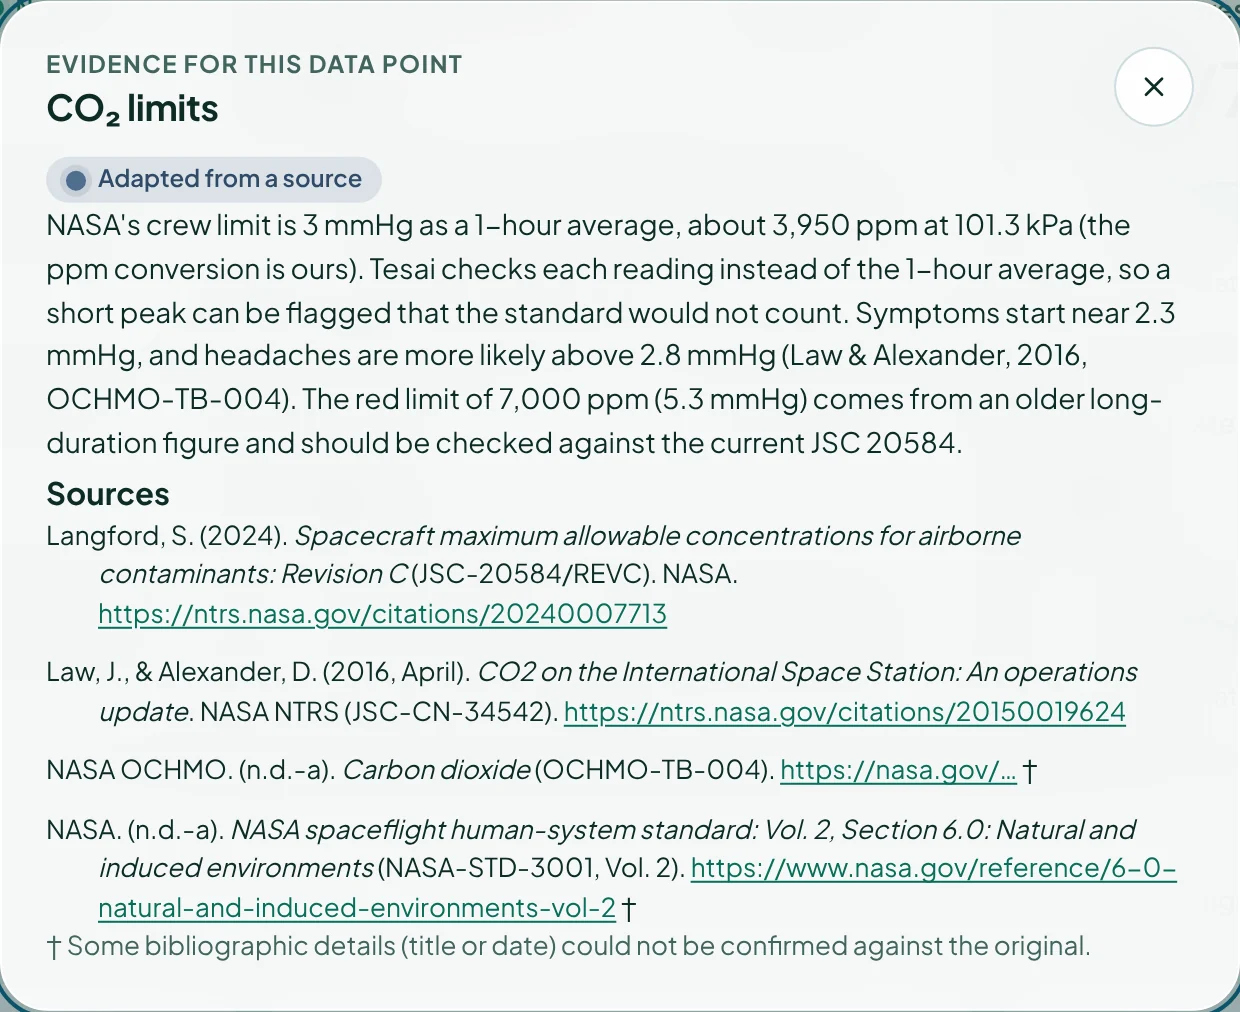
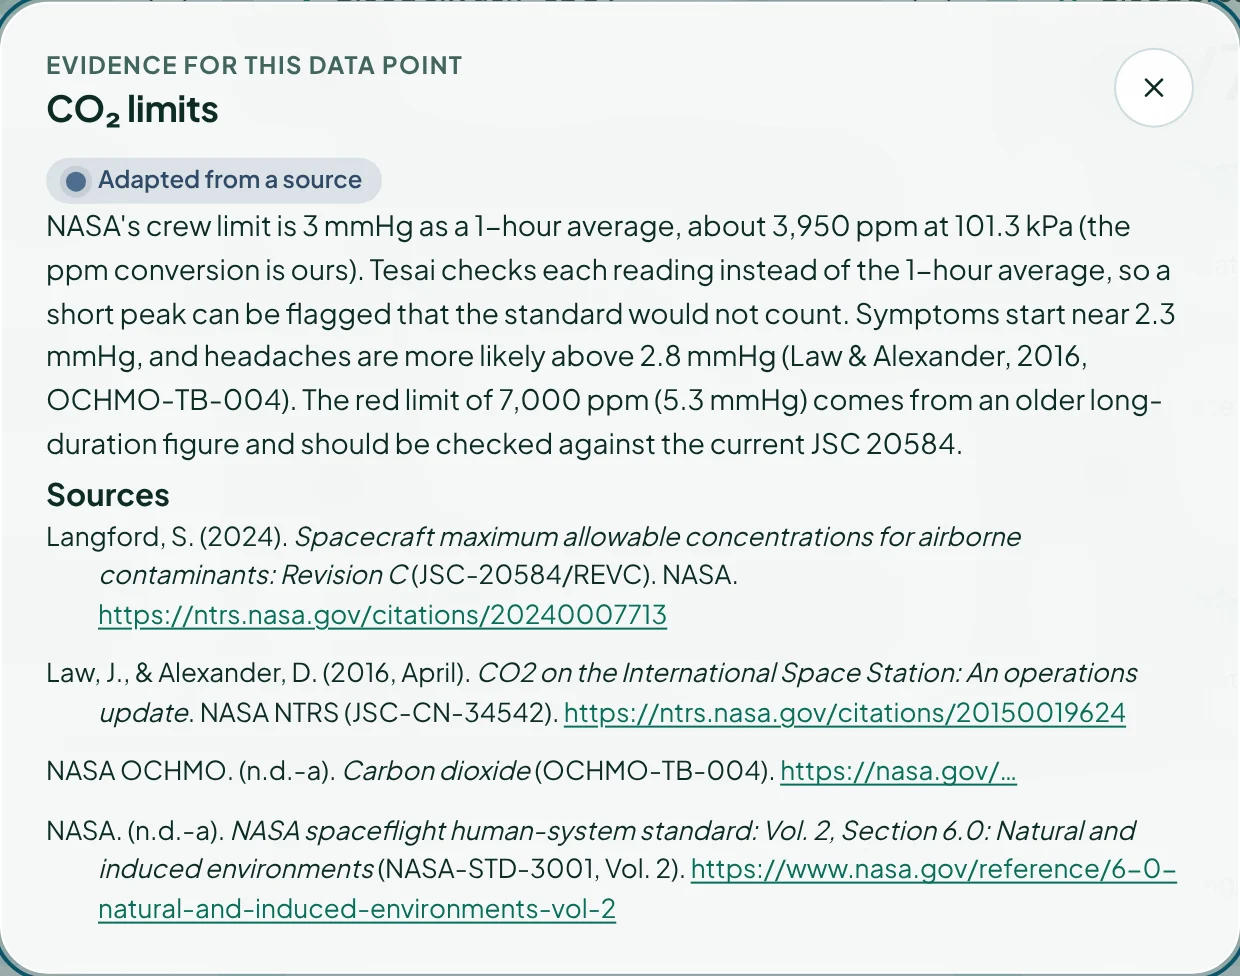
chore: quitar código sin uso y corregir la proporción de la captura de evidencia

diff --git a/src/tesai/styles/components/visor.css b/src/tesai/styles/components/visor.css
@@ -1,6 +1,6 @@
 /* ==========================================================================
-   VISOR · crew vitals always in view, situation notice, second doctor
-   Uses the Tesai tokens only (mint + teal glass, traffic-light levels).
+   VISOR · crew vitals always in view, situation notice, second doctor.
+   Page chrome uses the Tesai tokens; the first-person HUD below copies the simulation's glass look.
    ========================================================================== */
 
 .vz-chips { display: flex; flex-wrap: wrap; gap: 8px; align-items: center }
@@ -15,37 +15,8 @@
 .vz-chip[aria-pressed="true"] { background: var(--grad-brand); color: var(--color-white); border-color: transparent }
 .vz-chip.static { cursor: default; background: var(--glass); color: var(--color-muted); font-weight: 500 }
 .vz-chip.static:hover { background: var(--glass) }
-.vz-pick .vz-chip[data-level][aria-pressed="true"] { background: var(--lv-bg); color: var(--lv-ink); border-color: var(--lv) }
 
-/* ----- Situation notice + second doctor ----- */
-#vz-sim { margin-top: 16px }
-.vz-sit {
-  position: relative; padding: 20px 22px; border-radius: var(--r-xl, 24px);
-  background: var(--glass-3); border: 1px solid var(--line-2);
-  box-shadow: var(--shadow-m);
-}
-.vz-sit[data-level="attention"] { box-shadow: 0 0 0 1.5px var(--lv), var(--shadow-m) }
-.vz-sit[data-level="surgeon"]   { box-shadow: 0 0 0 2px var(--lv), 0 16px 40px color-mix(in srgb, var(--color-crit) 18%, transparent) }
-.vz-sit-top { display: flex; flex-wrap: wrap; align-items: center; gap: 10px }
-.vz-sit .eyebrow { font-size: var(--fs-xs); font-weight: 700; letter-spacing: .06em; text-transform: uppercase; color: var(--color-muted) }
-.vz-ok { display: inline-flex; align-items: center; gap: 4px; font-size: var(--fs-xs); font-weight: 600; color: var(--color-ok-ink) }
-.vz-ok .ic { width: 14px; height: 14px }
-.vz-sit h3 { font-size: 22px; font-weight: 700; letter-spacing: -.02em; margin-top: 10px }
-.vz-reason { color: var(--color-muted); margin-top: 4px }
-.vz-pick { display: flex; flex-wrap: wrap; gap: 8px; margin-top: 12px }
-
-.vz-calm { display: flex; gap: 14px; align-items: flex-start }
-.vz-calm .ic { width: 30px; height: 30px; color: var(--color-ok); flex: none }
-.vz-calm p { color: var(--color-muted); margin-top: 2px; max-width: 64ch }
-.vz-sit.calm { box-shadow: var(--shadow-s, none) }
-
-.vz-doc {
-  margin-top: 16px; padding: 16px; border-radius: 18px;
-  background: var(--tint-soft); border: 1px solid var(--line);
-}
-.vz-doc-h { display: flex; align-items: center; gap: 8px; color: var(--color-teal-ink) }
-.vz-doc-h .ic { width: 18px; height: 18px }
-.vz-doc-h span { margin-left: auto; font-size: var(--fs-xs); color: var(--color-muted) }
+/* ----- Second-doctor steps (base; the glass HUD below restyles them) ----- */
 .vz-steps { list-style: none; padding: 0; margin: 12px 0 0; display: grid; gap: 8px }
 .vz-steps button {
   display: flex; align-items: flex-start; gap: 12px; width: 100%; text-align: left;
@@ -67,31 +38,9 @@
 .vz-actions { display: flex; flex-wrap: wrap; gap: 8px; align-items: center; margin-top: 14px }
 .vz-actions .grow { flex: 1 }
 .vz-actions .btn .ic { width: 16px; height: 16px; margin-right: 6px }
-.vz-doc .note { margin-top: 12px }
-
-/* ----- Crew cards ----- */
-#vz-crew { display: flex; flex-direction: column; gap: 10px }
-.vz-card {
-  padding: 16px; border-radius: 22px;
-  background: var(--glass-2); border: 1px solid var(--line-2); box-shadow: var(--shadow-s, none);
-}
-.vz-card[data-level="attention"] { box-shadow: 0 0 0 1px var(--lv), var(--shadow-m) }
-.vz-card[data-level="surgeon"]   { box-shadow: 0 0 0 1.5px var(--lv), 0 10px 28px color-mix(in srgb, var(--color-crit) 16%, transparent) }
-.vz-card header { display: flex; align-items: center; gap: 12px }
-.vz-card .who { flex: 1; min-width: 0; display: flex; flex-direction: column }
-.vz-card .who b { font-weight: 700 }
-.vz-card .who span { color: var(--color-muted); font-size: var(--fs-sm) }
-.vz-vitals { display: grid; grid-template-columns: repeat(5, minmax(0, 1fr)); gap: 8px; margin-top: 14px }
-.vz-v {
-  padding: 8px 6px; border-radius: 14px; text-align: center;
-  background: var(--lv-bg); box-shadow: inset 0 0 0 1px color-mix(in srgb, var(--lv) 35%, transparent);
-}
-.vz-v small { display: block; font-size: 11px; font-weight: 700; letter-spacing: .04em; color: var(--color-muted) }
-.vz-v b { display: block; font-family: var(--font-mono); font-size: 17px; font-weight: 600; color: var(--color-ink); margin-top: 2px; white-space: nowrap }
-.vz-v i { display: block; font-style: normal; font-size: 10px; color: var(--color-muted) }
-.vz-q { display: inline-block; margin-top: 10px; font-size: var(--fs-xs); color: var(--color-warn-ink) }
 
 /* ----- Demo panel ----- */
+#vz-sim { margin-top: 16px }
 .vz-simrow { display: flex; flex-wrap: wrap; gap: 12px 20px; align-items: flex-end }
 .vz-simrow label { display: grid; gap: 4px; font-size: var(--fs-sm); color: var(--color-muted) }
 .vz-simrow select { padding: 8px 10px; border-radius: 12px; border: 1px solid var(--line-2); background: var(--color-white); font: inherit; color: var(--color-ink) }
@@ -101,12 +50,6 @@
 #btn-audio[aria-pressed="false"] { color: var(--color-muted) }
 #btn-audio[aria-pressed="true"]  { color: var(--color-teal-ink) }
 #btn-audio .ic { width: 18px; height: 18px }
-
-@media (max-width: 1000px) {
-  .vz-vitals { grid-template-columns: repeat(3, minmax(0, 1fr)) }
-  .vz-sit { padding: 16px }
-}
-
 
 .vz-scenes { display: inline-flex; gap: 6px }
 

diff --git a/src/styles.css b/src/styles.css
@@ -47,7 +47,6 @@ a{color:inherit}
 .eyebrow{position:absolute;left:24px;top:22px;z-index:2;color:var(--white);font-size:12px;font-weight:700;letter-spacing:.14em;text-transform:uppercase;padding:6px 14px;border-radius:999px;background:rgba(255,255,255,.16);border:1px solid rgba(255,255,255,.28);-webkit-backdrop-filter:blur(8px);backdrop-filter:blur(8px)}
 .hero h1{font-size:clamp(52px,7vw,88px);line-height:1;letter-spacing:-.035em;margin:0 0 4px;text-shadow:0 4px 24px rgba(0,20,26,.5)}
 .tag{font-size:clamp(17px,1.7vw,22px);font-weight:500;margin-bottom:20px;text-shadow:0 2px 14px rgba(0,20,26,.55)}
-.hero-sub{max-width:820px;margin:26px auto 0;text-align:center;font-size:clamp(16px,1.5vw,19px);color:var(--muted)}
 
 /* ---------- sections ---------- */
 .sec{width:min(1180px,calc(100% - 32px));margin:clamp(72px,9vw,120px) auto 0}
@@ -201,7 +200,7 @@ a{color:inherit}
 .tcard h3{font-size:21px;letter-spacing:-.02em;margin-bottom:8px}
 .tcard p{color:var(--muted)}
 .tcard.wide{grid-column:1/-1;display:grid;grid-template-columns:minmax(0,.9fr) minmax(0,1fr);gap:28px;align-items:center}
-.tcard-media img{border-radius:18px;border:1px solid var(--line);box-shadow:0 10px 30px rgba(11,85,107,.14)}
+.tcard-media img{width:100%;height:auto;border-radius:18px;border:1px solid var(--line);box-shadow:0 10px 30px rgba(11,85,107,.14)}
 
 /* ---------- team as plain names, footer links ---------- */
 .team li{background:none;border:0;padding:4px 14px;font-size:18px}

diff --git a/src/main.js b/src/main.js
@@ -1,8 +1,6 @@
 /* Tesai · interacciones mínimas: idioma ES/EN, guía de sensores y video del Visor. */
 (function () {
   var root = document.documentElement;
-  function save(k, v) { try { localStorage.setItem(k, v); } catch (e) {} }
-  function load(k) { try { return localStorage.getItem(k); } catch (e) { return null; } }
 
   /* ---- idioma: cada texto trae data-es / data-en ---- */
   function setLang(l) {
@@ -10,7 +8,6 @@
     document.querySelectorAll('[data-es][data-en]').forEach(function (el) { el.textContent = el.getAttribute('data-' + l); });
     document.querySelectorAll('[data-es-alt]').forEach(function (el) { el.alt = el.getAttribute('data-' + l + '-alt'); });
     document.querySelectorAll('.pin[data-l-es]').forEach(function (p) { p.setAttribute('aria-label', p.getAttribute('data-l-' + l)); });
-    document.querySelectorAll('.lang button').forEach(function (b) { b.setAttribute('aria-pressed', String(b.dataset.lang === l)); });
     document.title = l === 'en' ? 'Tesai · A second doctor inside your visor' : 'Tesai · Un segundo médico dentro de tu visor';
     document.querySelectorAll('[data-es-label]').forEach(function (el) { el.setAttribute('aria-label', el.getAttribute('data-' + l + '-label')); });
     /* capturas de Tesai en el idioma elegido */

diff --git a/src/index.html b/src/index.html
@@ -321,7 +321,7 @@
     </div>
     <div class="trust">
       <article class="tcard wide">
-        <div class="tcard-media"><img src="assets/tesai/evidence-es.webp" data-img-es="assets/tesai/evidence-es.webp" data-img-en="assets/tesai/evidence-en.webp" width="1240" height="1012" loading="lazy"
+        <div class="tcard-media"><img src="assets/tesai/evidence-es.webp" data-img-es="assets/tesai/evidence-es.webp" data-img-en="assets/tesai/evidence-en.webp" width="1240" height="1020" loading="lazy"
           alt="Ventana de evidencia de Tesai para el límite de CO₂, con su respaldo y sus fuentes." data-es-alt="Ventana de evidencia de Tesai para el límite de CO₂, con su respaldo y sus fuentes." data-en-alt="Tesai evidence window for the CO₂ limit, with its basis and sources."></div>
         <div>
           <h3 data-es="Cada número dice de dónde sale" data-en="Every number says where it comes from">Cada número dice de dónde sale</h3>

diff --git a/src/tesai/js/ui/helpers.js b/src/tesai/js/ui/helpers.js
@@ -3,8 +3,8 @@
  * DOM helpers, HTML builders, chart renderer.
  */
 import { ICONS, LV_ICON } from './icons.js';
-import { LEVELS, METRICS, CONFIG, SCHEMA } from '../config.js';
-import { esc, fmtTime, pad, clamp } from '../utils.js';
+import { LEVELS } from '../config.js';
+import { esc, fmtTime } from '../utils.js';
 import { State } from '../state.js';
 
 /* ===== DOM helpers ===== */
@@ -85,13 +85,3 @@ export function download(name, content, type) {
   setTimeout(() => URL.revokeObjectURL(a.href), 1000);
 }
 
-let audioCtx;
-export function beep() {
-  try {
-    audioCtx ||= new (window.AudioContext || window.webkitAudioContext)();
-    const o = audioCtx.createOscillator(), g = audioCtx.createGain();
-    o.frequency.value = 880; g.gain.value = 0.05;
-    o.connect(g); g.connect(audioCtx.destination);
-    o.start(); o.stop(audioCtx.currentTime + 0.18);
-  } catch (e) { /* audio not available */ }
-}

diff --git a/src/tesai/styles/responsive.css b/src/tesai/styles/responsive.css
@@ -26,7 +26,6 @@
   .strip-wrap { padding: 8px 12px 0 }
   .dockbar { width: calc(100% - 24px) }
   .today { padding: 0 12px 120px }
-  .g3 { grid-template-columns: repeat(2, minmax(0, 1fr)) }
   .drawer {
     top: auto; left: 8px; right: 8px; bottom: 8px;
     width: auto; max-width: none; max-height: 78vh;
@@ -45,14 +44,13 @@
 }
 
 @media (max-width: 760px) {
-  .g2, .g3 { grid-template-columns: minmax(0, 1fr) }
+  .g2 { grid-template-columns: minmax(0, 1fr) }
   .page-head h2 { font-size: 22px }
   .arow { grid-template-columns: auto minmax(0, 1fr) }
   .arow .side { grid-column: 1 / -1; flex-direction: row; justify-content: space-between; align-items: center }
   .dockbar .sep { display: none }
   .dockbar .acts { width: 100% }
   .dockbar .acts .btn { flex: 1 }
-  .brand-name { font-size: var(--fs-lg) }
 }
 
 @media (max-width: 560px) {

diff --git a/src/tesai/js/ui/visor.js b/src/tesai/js/ui/visor.js
@@ -5,10 +5,10 @@
  * opens, guides the crew step by step, by voice and on screen.
  * The glass HUD uses the same visual language as the immersive simulation.
  */
-import { $, $$, setHtml, pillHtml, fmtVal } from './helpers.js';
+import { $, setHtml, fmtVal } from './helpers.js';
 import { ICONS } from './icons.js';
 import { showToast, closeToastFor } from './toasts.js';
-import { CONFIG, METRICS, LEVELS } from '../config.js';
+import { CONFIG, METRICS } from '../config.js';
 import { esc, uid, pad } from '../utils.js';
 import { State, ackAlert, personName } from '../state.js';
 import { Sound } from '../audio.js';

diff --git a/src/shared/lang.js b/src/shared/lang.js
@@ -10,7 +10,7 @@
       var u = new URL(location.href), q = u.searchParams.get('lang');
       if (q === 'es' || q === 'en') { v = q; try { localStorage.setItem(KEY, q); } catch (e2) {} u.searchParams.delete('lang'); history.replaceState(null, '', u.pathname + u.search + u.hash); }
     } catch (e) {}
-    try { v = v || localStorage.getItem(KEY) || localStorage.getItem('higia.lang') || localStorage.getItem('pulso-lang'); } catch (e) {}
+    try { v = v || localStorage.getItem(KEY) || localStorage.getItem('higia.lang'); } catch (e) {}
     return clean(v);
   }
   var current = read();

diff --git a/src/tesai/js/evidence.js b/src/tesai/js/evidence.js
@@ -97,7 +97,6 @@ export const BASIS_LEVEL  = { source: 'normal', adapted: 'sensor', design: 'part
 /* ===== Rendering helpers ===== */
 export const citeText    = key => (EVIDENCE[key]?.refs || []).map(id => SOURCES[id].cite).join('; ');
 export const apaItems    = ids => [...new Set(ids)].sort((a, b) => SOURCES[a].sort.localeCompare(SOURCES[b].sort)).map(id => `<li>${SOURCES[id].apa}</li>`).join('');
-export const hasUnverified = ids => ids.some(id => SOURCES[id]?.unverified);
 
 export const basisPill   = (pillHtml, b) => pillHtml(BASIS_LEVEL[b], BASIS_LABEL[b]);
 

diff --git a/src/tesai/styles/components/nav.css b/src/tesai/styles/components/nav.css
@@ -23,14 +23,6 @@
 
 /* ===== Brand ===== */
 .brand { display: flex; align-items: center; gap: 10px }
-.brand-mark {
-  width: 30px; height: 30px; border-radius: 50%;
-  background: var(--grad-brand);
-  display: grid; place-items: center;
-  color: var(--color-white);
-}
-.brand-name { font-weight: 700; font-size: var(--fs-lg); letter-spacing: -.01em }
-@media (max-width: 460px) { .brand-name { display: none } }
 
 /* ===== Desktop tabs ===== */
 .tabs { display: flex; flex-wrap: nowrap; white-space: nowrap; gap: 4px; margin-left: 8px }

diff --git a/src/tesai/styles/components/cards.css b/src/tesai/styles/components/cards.css
@@ -131,7 +131,6 @@
 .ecard .v { font-size: var(--fs-num); font-weight: 600; letter-spacing: -.03em; line-height: 1.05; font-variant-numeric: tabular-nums }
 .ecard .v small { font-size: var(--fs-lg); color: var(--color-teal-ink); margin-left: 5px }
 .ecard .q   { font-size: var(--fs-sm); color: var(--color-ink) }
-.ecard .ref { font-size: var(--fs-xs); color: var(--color-muted) }
 
 /* ===== Bottom dock bar ===== */
 .dockbar {

diff --git a/src/tesai/styles/layout.css b/src/tesai/styles/layout.css
@@ -26,7 +26,6 @@ main { flex: 1; width: 100%; position: relative }
 /* ===== Grid helpers ===== */
 .grid            { display: grid; gap: 16px }
 .g2              { grid-template-columns: repeat(2, minmax(0, 1fr)) }
-.g3              { grid-template-columns: repeat(3, minmax(0, 1fr)) }
 .grid > *        { min-width: 0 }
 .diag-grid       { grid-template-columns: minmax(0, 1.5fr) minmax(0, 1fr); align-items: start }
 
